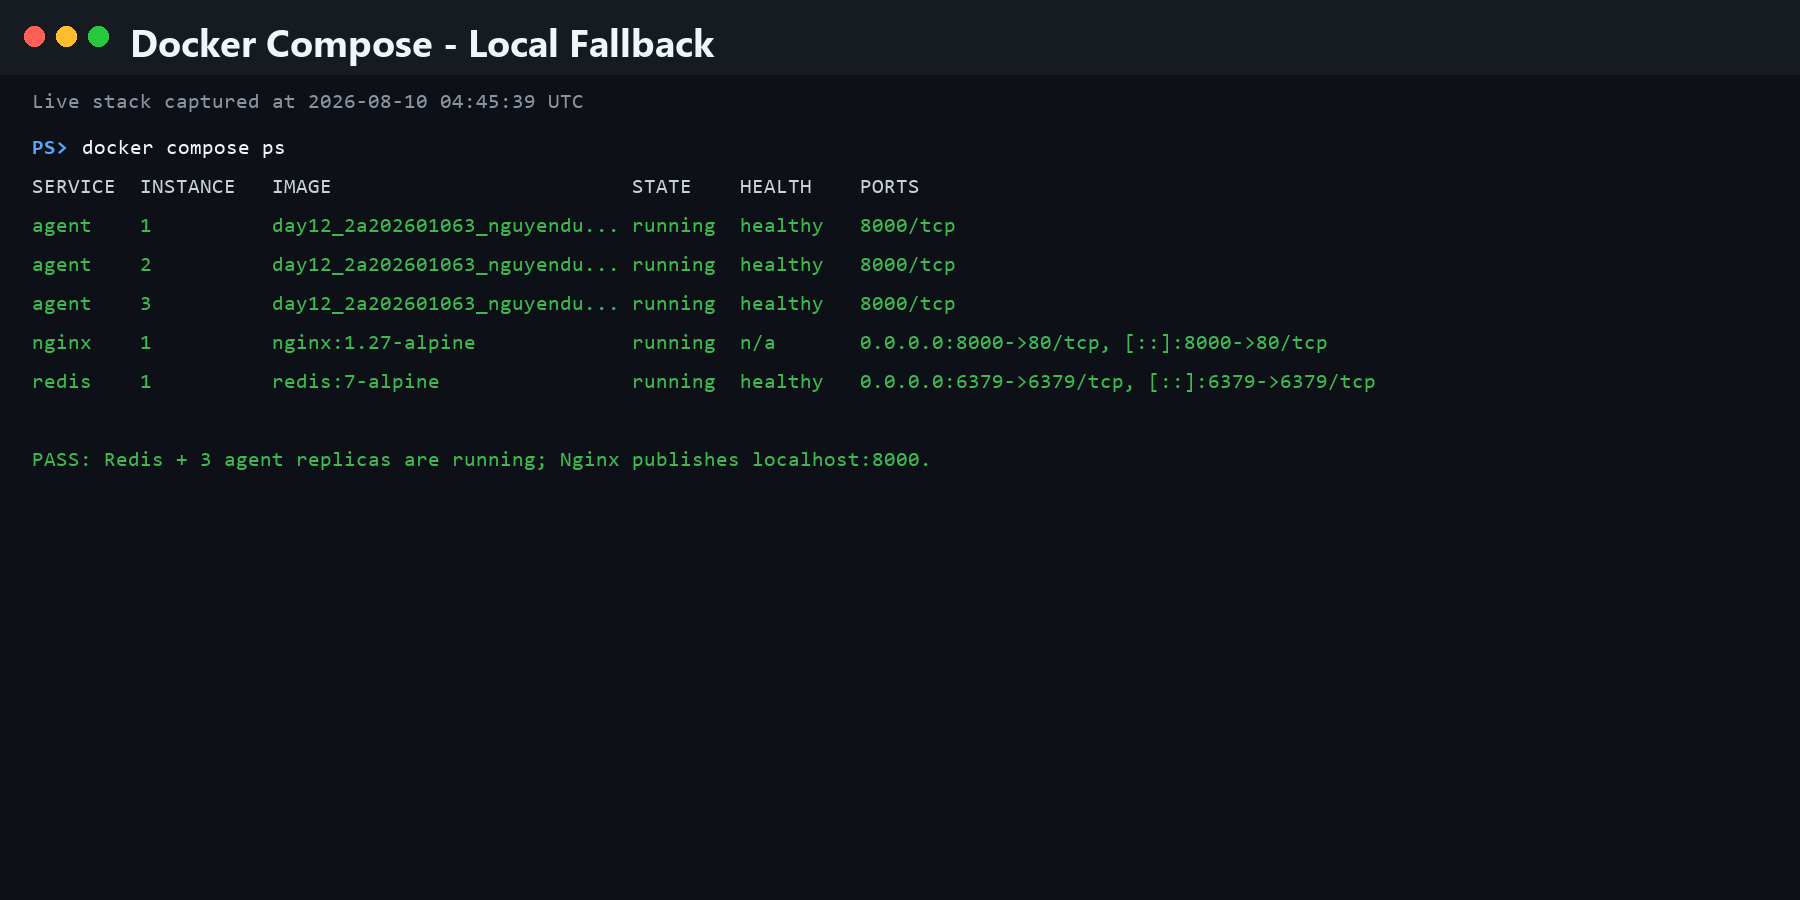
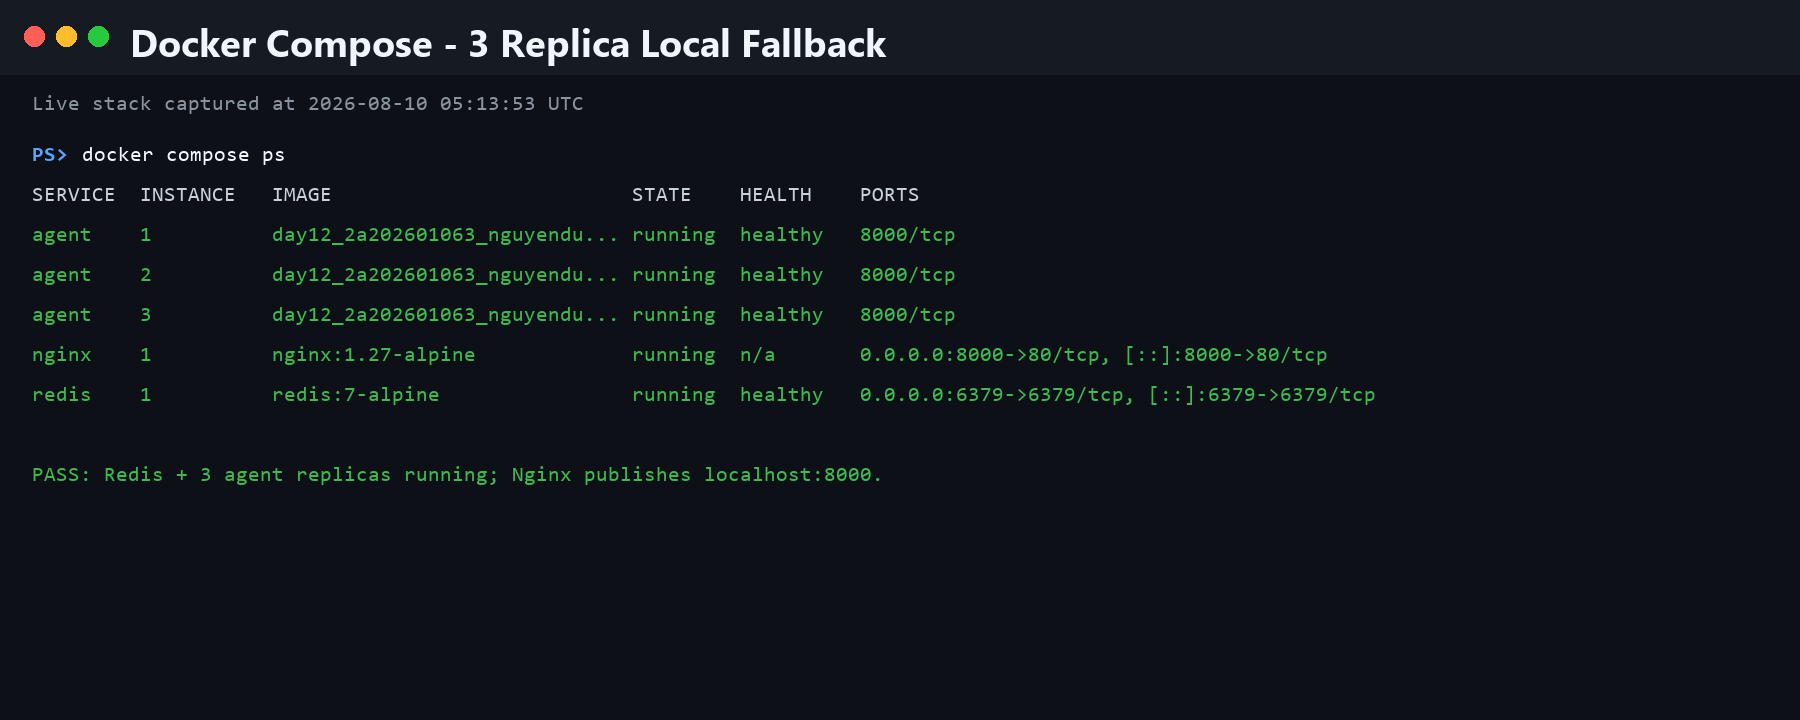
Bo sung day du anh minh chung CP5

diff --git a/screenshots/README.md b/screenshots/README.md
@@ -1,1 +1,16 @@
-# Đặt ảnh chụp màn hình bản deploy vào thư mục này
+# Minh chứng Checkpoint CP5
+
+Bài nộp sử dụng phương án `LOCAL_FALLBACK=true` được đề bài cho phép. Các ảnh được
+ghi nhận từ Docker Compose và các request thật gọi qua Nginx tại
+`http://localhost:8000` ngày 2026-08-10.
+
+| File | Minh chứng |
+|------|------------|
+| `dashboard.png` | Redis, ba agent replica và Nginx đang hoạt động |
+| `health.png` | `/health` trả HTTP 200 |
+| `ready.png` | `/ready` trả HTTP 200, Redis sẵn sàng |
+| `ask-unauthorized.png` | `/ask` thiếu API key trả HTTP 401 |
+| `ask-authorized.png` | `/ask` có API key hợp lệ trả HTTP 200; key đã được che |
+| `stateless.png` | Request được phân phối qua ba replica và dùng chung lịch sử Redis |
+
+Không có giá trị `AGENT_API_KEY` nào xuất hiện trong ảnh hoặc repository.

diff --git a/DEPLOYMENT.md b/DEPLOYMENT.md
@@ -54,8 +54,12 @@ agent-3 handled=2
 
 ## Bằng Chứng
 
-- `screenshots/dashboard.png`: trạng thái Docker Compose với Redis, ba agent và Nginx.
-- `screenshots/health.png`: phản hồi `/health` và các endpoint local.
+- `screenshots/dashboard.png`: Docker Compose Local Fallback với Redis, ba agent replica và Nginx đều hoạt động.
+- `screenshots/health.png`: `GET /health` trả HTTP 200 (liveness).
+- `screenshots/ready.png`: `GET /ready` trả HTTP 200 và xác nhận Redis sẵn sàng.
+- `screenshots/ask-unauthorized.png`: `POST /ask` không có `X-API-Key` trả HTTP 401.
+- `screenshots/ask-authorized.png`: `POST /ask` có API key hợp lệ trả HTTP 200; khóa thật đã được che.
+- `screenshots/stateless.png`: năm request được xử lý qua ba replica với lịch sử dùng chung trong Redis.
 
 ## Lý Do Dùng Local Fallback
 
